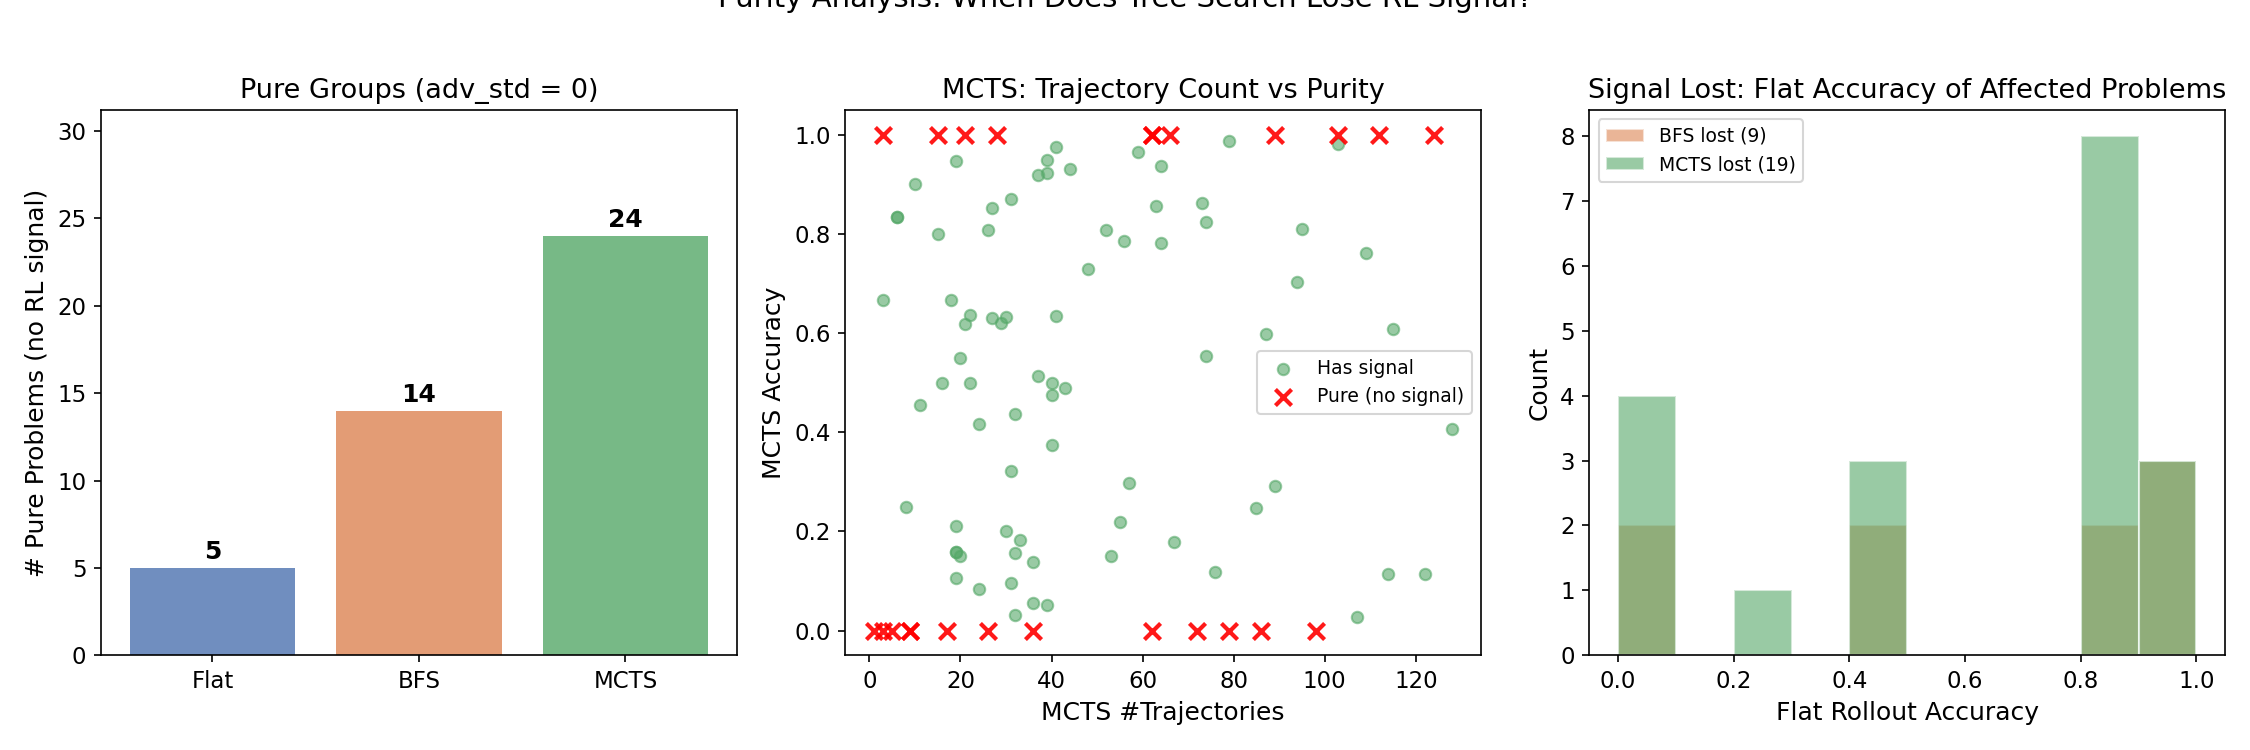
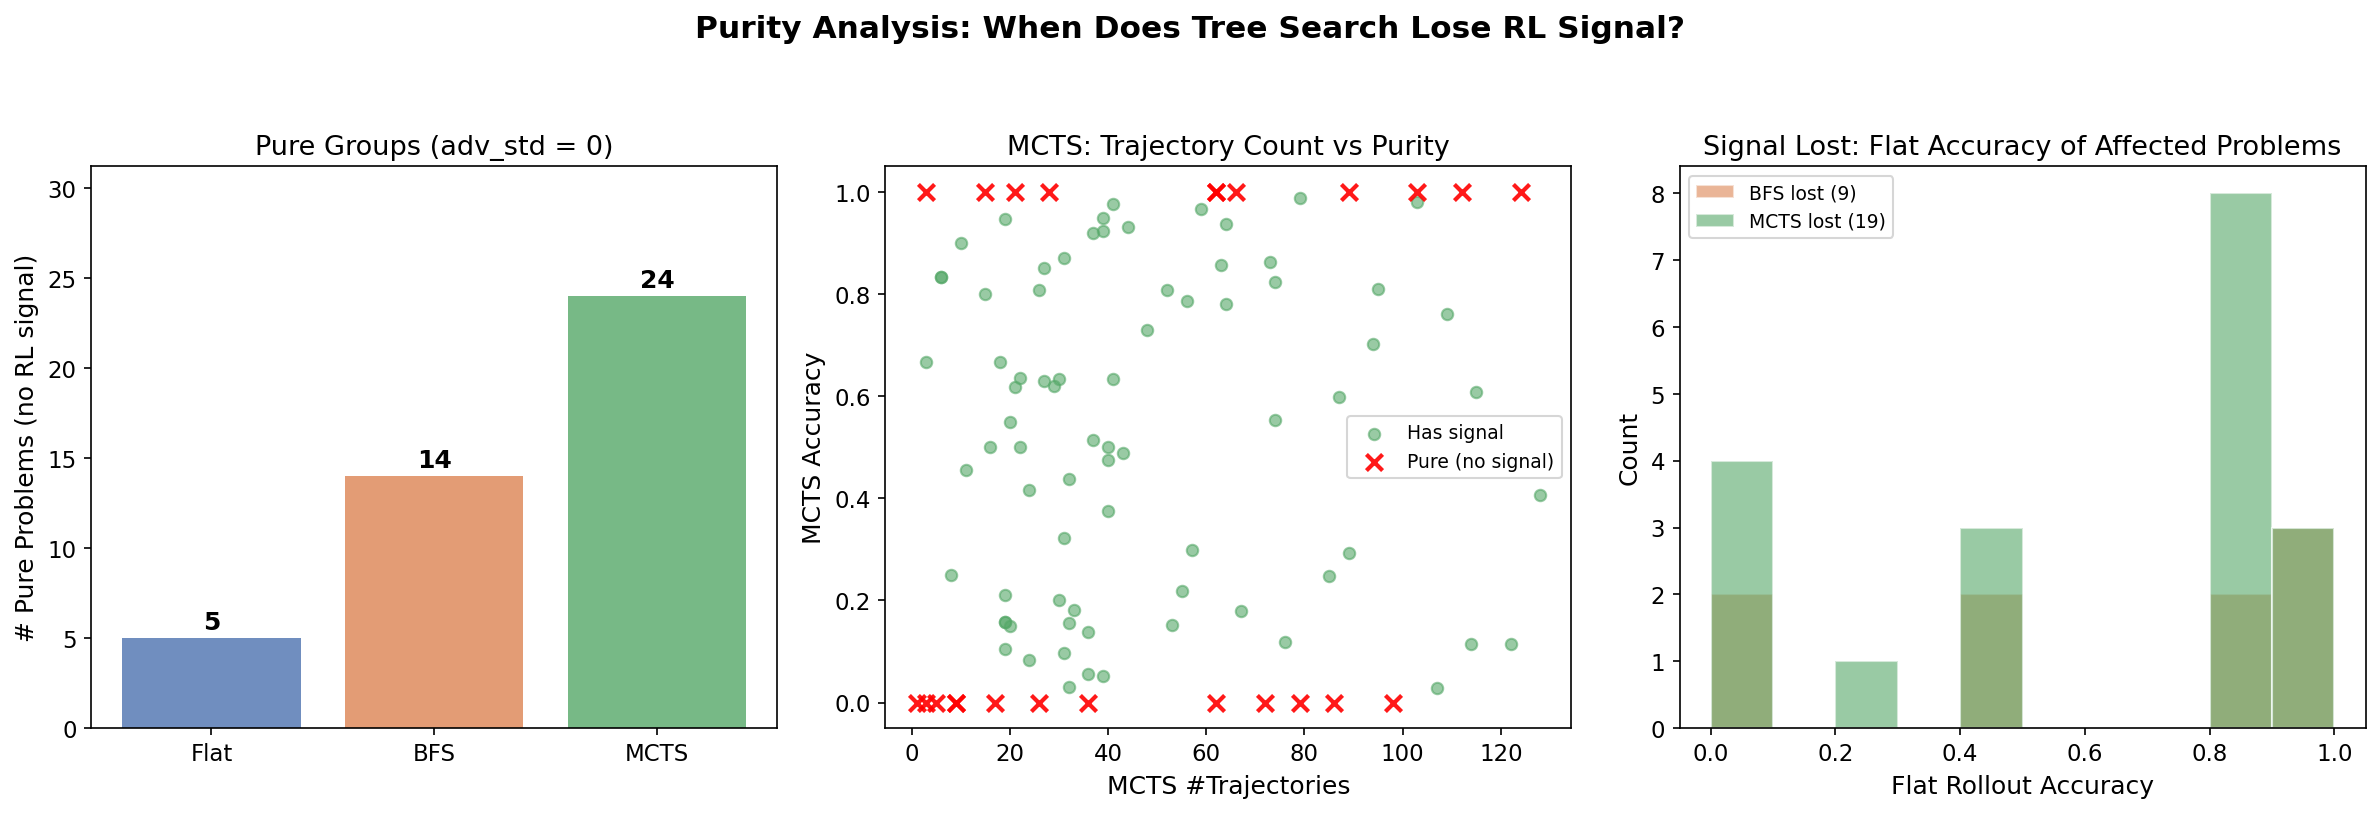
Fix plot titles and add README for advantage comparison results
- Fix suptitle clipping by using tight_layout(rect=...) + bbox_inches
- Add detailed README describing all 8 figures and the data file

diff --git a/poisson_mcts/plot_advantage_comparison.py b/poisson_mcts/plot_advantage_comparison.py
@@ -28,7 +28,7 @@ def load_data(path):
 
 def plot_accuracy_scatter(results, out_dir):
     """Scatter: Flat vs BFS / Flat vs MCTS accuracy per problem."""
-    fig, axes = plt.subplots(1, 2, figsize=(12, 5.5))
+    fig, axes = plt.subplots(1, 2, figsize=(13, 6))
 
     fa = [r["flat"]["accuracy"] for r in results]
     ba = [r["bfs_tree"]["accuracy"] for r in results]
@@ -66,16 +66,16 @@ def plot_accuracy_scatter(results, out_dir):
     ax.set_ylim(-0.05, 1.05)
     ax.set_aspect("equal")
 
-    fig.suptitle("Per-Problem Accuracy: Tree Methods vs Flat Rollout", fontsize=14, y=1.02)
-    fig.tight_layout()
-    fig.savefig(f"{out_dir}/accuracy_scatter.png")
+    fig.suptitle("Per-Problem Accuracy: Tree Methods vs Flat Rollout", fontsize=15, fontweight="bold")
+    fig.tight_layout(rect=[0, 0, 1, 0.95])
+    fig.savefig(f"{out_dir}/accuracy_scatter.png", bbox_inches="tight")
     plt.close(fig)
     print(f"Saved {out_dir}/accuracy_scatter.png")
 
 
 def plot_accuracy_diff_histogram(results, out_dir):
     """Histogram of accuracy differences: BFS-Flat and MCTS-Flat."""
-    fig, axes = plt.subplots(1, 2, figsize=(12, 5))
+    fig, axes = plt.subplots(1, 2, figsize=(13, 5.5))
 
     fa = np.array([r["flat"]["accuracy"] for r in results])
     ba = np.array([r["bfs_tree"]["accuracy"] for r in results])
@@ -92,7 +92,7 @@ def plot_accuracy_diff_histogram(results, out_dir):
     ax.axvline(np.mean(diff_fb), color="red", ls="-", lw=1.5, label=f"mean={np.mean(diff_fb):+.1%}")
     ax.set_xlabel("BFS Accuracy - Flat Accuracy")
     ax.set_ylabel("Count")
-    ax.set_title("BFS vs Flat: Accuracy Difference")
+    ax.set_title("BFS vs Flat")
     ax.legend()
 
     ax = axes[1]
@@ -101,12 +101,12 @@ def plot_accuracy_diff_histogram(results, out_dir):
     ax.axvline(np.mean(diff_fm), color="red", ls="-", lw=1.5, label=f"mean={np.mean(diff_fm):+.1%}")
     ax.set_xlabel("MCTS Accuracy - Flat Accuracy")
     ax.set_ylabel("Count")
-    ax.set_title("MCTS vs Flat: Accuracy Difference")
+    ax.set_title("MCTS vs Flat")
     ax.legend()
 
-    fig.suptitle("Per-Problem Accuracy Difference Distribution", fontsize=14, y=1.02)
-    fig.tight_layout()
-    fig.savefig(f"{out_dir}/accuracy_diff_histogram.png")
+    fig.suptitle("Per-Problem Accuracy Difference Distribution", fontsize=15, fontweight="bold")
+    fig.tight_layout(rect=[0, 0, 1, 0.93])
+    fig.savefig(f"{out_dir}/accuracy_diff_histogram.png", bbox_inches="tight")
     plt.close(fig)
     print(f"Saved {out_dir}/accuracy_diff_histogram.png")
 
@@ -121,7 +121,7 @@ def plot_accuracy_bar(results, out_dir):
     order = np.argsort(fa)
     fa, ba, ma, idx = fa[order], ba[order], ma[order], idx[order]
 
-    fig, ax = plt.subplots(figsize=(16, 5))
+    fig, ax = plt.subplots(figsize=(18, 6))
     x = np.arange(len(results))
     w = 0.27
     ax.bar(x - w, fa, w, color=COLORS["flat"], alpha=0.85, label=LABELS["flat"])
@@ -129,20 +129,20 @@ def plot_accuracy_bar(results, out_dir):
     ax.bar(x + w, ma, w, color=COLORS["mcts"], alpha=0.85, label=LABELS["mcts"])
     ax.set_xlabel("Problems (sorted by Flat accuracy)")
     ax.set_ylabel("Accuracy")
-    ax.set_title("Per-Problem Accuracy Comparison (100 Problems, step_0)")
+    ax.set_title("Per-Problem Accuracy Comparison (100 Problems, step_0)", fontsize=15, fontweight="bold")
     ax.legend(loc="upper left")
     ax.set_xticks(x[::5])
     ax.set_xticklabels([f"p{i}" for i in idx[::5]], fontsize=8, rotation=45)
     ax.set_ylim(0, 1.05)
     fig.tight_layout()
-    fig.savefig(f"{out_dir}/accuracy_bar_sorted.png")
+    fig.savefig(f"{out_dir}/accuracy_bar_sorted.png", bbox_inches="tight")
     plt.close(fig)
     print(f"Saved {out_dir}/accuracy_bar_sorted.png")
 
 
 def plot_trajectory_counts(results, out_dir):
     """Trajectory count distribution for BFS and MCTS."""
-    fig, axes = plt.subplots(1, 2, figsize=(12, 5))
+    fig, axes = plt.subplots(1, 2, figsize=(13, 5.5))
 
     bn = [r["bfs_tree"]["num_trajectories"] for r in results]
     mn = [r["poisson_mcts"]["num_trajectories"] for r in results]
@@ -153,7 +153,7 @@ def plot_trajectory_counts(results, out_dir):
     ax.axvline(np.mean(bn), color="black", ls="-", lw=1.5, label=f"mean={np.mean(bn):.0f}")
     ax.set_xlabel("#Trajectories")
     ax.set_ylabel("Count")
-    ax.set_title(f"BFS Tree: Trajectory Count (mean={np.mean(bn):.0f}, range={min(bn)}-{max(bn)})")
+    ax.set_title(f"BFS Tree (mean={np.mean(bn):.0f}, range={min(bn)}-{max(bn)})")
     ax.legend()
 
     ax = axes[1]
@@ -162,19 +162,19 @@ def plot_trajectory_counts(results, out_dir):
     ax.axvline(np.mean(mn), color="black", ls="-", lw=1.5, label=f"mean={np.mean(mn):.0f}")
     ax.set_xlabel("#Trajectories")
     ax.set_ylabel("Count")
-    ax.set_title(f"Poisson-MCTS: Trajectory Count (mean={np.mean(mn):.0f}, range={min(mn)}-{max(mn)})")
+    ax.set_title(f"Poisson-MCTS (mean={np.mean(mn):.0f}, range={min(mn)}-{max(mn)})")
     ax.legend()
 
-    fig.suptitle("Number of Complete Trajectories (Target: 128)", fontsize=14, y=1.02)
-    fig.tight_layout()
-    fig.savefig(f"{out_dir}/trajectory_counts.png")
+    fig.suptitle("Number of Complete Trajectories (Target: 128)", fontsize=15, fontweight="bold")
+    fig.tight_layout(rect=[0, 0, 1, 0.93])
+    fig.savefig(f"{out_dir}/trajectory_counts.png", bbox_inches="tight")
     plt.close(fig)
     print(f"Saved {out_dir}/trajectory_counts.png")
 
 
 def plot_token_efficiency(results, out_dir):
     """Token cost comparison."""
-    fig, axes = plt.subplots(1, 2, figsize=(12, 5))
+    fig, axes = plt.subplots(1, 2, figsize=(13, 5.5))
 
     ft = [r["flat"]["total_tokens"] for r in results]
     bt = [r["bfs_tree"]["total_tokens"] for r in results]
@@ -184,7 +184,7 @@ def plot_token_efficiency(results, out_dir):
     ax = axes[0]
     bp = ax.boxplot(
         [np.array(ft) / 1000, np.array(bt) / 1000, np.array(mt) / 1000],
-        labels=["Flat", "BFS", "MCTS"],
+        tick_labels=["Flat", "BFS", "MCTS"],
         patch_artist=True,
         widths=0.5,
     )
@@ -208,16 +208,16 @@ def plot_token_efficiency(results, out_dir):
     ax.legend(fontsize=9)
     ax.set_ylim(0, max(max(ratio_b), max(ratio_m)) * 1.1)
 
-    fig.suptitle("Compute Efficiency: Tree Methods vs Flat Rollout", fontsize=14, y=1.02)
-    fig.tight_layout()
-    fig.savefig(f"{out_dir}/token_efficiency.png")
+    fig.suptitle("Compute Efficiency: Tree Methods vs Flat Rollout", fontsize=15, fontweight="bold")
+    fig.tight_layout(rect=[0, 0, 1, 0.93])
+    fig.savefig(f"{out_dir}/token_efficiency.png", bbox_inches="tight")
     plt.close(fig)
     print(f"Saved {out_dir}/token_efficiency.png")
 
 
 def plot_purity_analysis(results, out_dir):
     """Purity (adv_std=0) analysis: who loses signal and why."""
-    fig, axes = plt.subplots(1, 3, figsize=(15, 5))
+    fig, axes = plt.subplots(1, 3, figsize=(16, 5.5))
 
     fa = np.array([r["flat"]["accuracy"] for r in results])
     ba = np.array([r["bfs_tree"]["accuracy"] for r in results])
@@ -265,9 +265,9 @@ def plot_purity_analysis(results, out_dir):
     ax.set_title("Signal Lost: Flat Accuracy of Affected Problems")
     ax.legend(fontsize=9)
 
-    fig.suptitle("Purity Analysis: When Does Tree Search Lose RL Signal?", fontsize=14, y=1.02)
-    fig.tight_layout()
-    fig.savefig(f"{out_dir}/purity_analysis.png")
+    fig.suptitle("Purity Analysis: When Does Tree Search Lose RL Signal?", fontsize=15, fontweight="bold")
+    fig.tight_layout(rect=[0, 0, 1, 0.93])
+    fig.savefig(f"{out_dir}/purity_analysis.png", bbox_inches="tight")
     plt.close(fig)
     print(f"Saved {out_dir}/purity_analysis.png")
 
@@ -275,8 +275,6 @@ def plot_purity_analysis(results, out_dir):
 def plot_advantage_distributions(results, out_dir):
     """Example advantage distributions for selected problems."""
     # Pick 6 representative problems
-    # 1. Both similar, 2. BFS better, 3. MCTS better, 4. MCTS pure, 5. Easy, 6. Hard
-    fa = {r["problem_index"]: r["flat"]["accuracy"] for r in results}
     candidates = []
     for r in results:
         diff_b = abs(r["flat"]["accuracy"] - r["bfs_tree"]["accuracy"])
@@ -319,7 +317,7 @@ def plot_advantage_distributions(results, out_dir):
             selected.append(c[0])
             break
 
-    fig, axes = plt.subplots(2, 3, figsize=(15, 9))
+    fig, axes = plt.subplots(2, 3, figsize=(16, 10))
     axes = axes.flatten()
 
     for ax_i, pidx in enumerate(selected[:6]):
@@ -338,20 +336,21 @@ def plot_advantage_distributions(results, out_dir):
                 label=f"BFS ({r['bfs_tree']['accuracy']:.0%}, n={r['bfs_tree']['num_trajectories']})", density=True)
         ax.hist(ma_adv, bins=bins, alpha=0.5, color=COLORS["mcts"],
                 label=f"MCTS ({r['poisson_mcts']['accuracy']:.0%}, n={r['poisson_mcts']['num_trajectories']})", density=True)
-        ax.set_title(f"Problem {pidx}", fontsize=11)
+        ax.set_title(f"Problem {pidx}", fontsize=12)
         ax.legend(fontsize=7, loc="upper right")
         ax.set_xlabel("GRPO Advantage")
 
-    fig.suptitle("Advantage Distribution Examples (6 Problems)", fontsize=14, y=1.02)
-    fig.tight_layout()
-    fig.savefig(f"{out_dir}/advantage_distributions.png")
+    fig.suptitle("GRPO Advantage Distribution Examples (6 Representative Problems)",
+                 fontsize=15, fontweight="bold")
+    fig.tight_layout(rect=[0, 0, 1, 0.95])
+    fig.savefig(f"{out_dir}/advantage_distributions.png", bbox_inches="tight")
     plt.close(fig)
     print(f"Saved {out_dir}/advantage_distributions.png")
 
 
 def plot_summary_table(results, out_dir):
     """Summary figure with key metrics as a visual table + bar chart."""
-    fig = plt.figure(figsize=(14, 6))
+    fig = plt.figure(figsize=(15, 7))
     gs = gridspec.GridSpec(1, 2, width_ratios=[1, 1.2])
 
     # Left: summary table
@@ -394,7 +393,7 @@ def plot_summary_table(results, out_dir):
         table[0, j].set_facecolor(list(COLORS.values())[j])
         table[0, j].set_text_props(color="white", fontweight="bold")
 
-    ax.set_title("Summary Metrics (100 Problems, step_0)", fontsize=13, pad=20)
+    ax.set_title("Key Metrics", fontsize=13, pad=20)
 
     # Right: accuracy bucket comparison
     ax2 = fig.add_subplot(gs[1])
@@ -416,8 +415,10 @@ def plot_summary_table(results, out_dir):
     ax2.set_title("Accuracy Distribution by Bucket")
     ax2.legend(fontsize=9)
 
-    fig.tight_layout()
-    fig.savefig(f"{out_dir}/summary.png")
+    fig.suptitle("GRPO Advantage Comparison Summary (100 Problems, step_0)",
+                 fontsize=15, fontweight="bold")
+    fig.tight_layout(rect=[0, 0, 1, 0.94])
+    fig.savefig(f"{out_dir}/summary.png", bbox_inches="tight")
     plt.close(fig)
     print(f"Saved {out_dir}/summary.png")
 

diff --git a/poisson_mcts/results/advantage_comparison/step_0/README.md b/poisson_mcts/results/advantage_comparison/step_0/README.md
@@ -1,0 +1,39 @@
+# GRPO Advantage Comparison: Flat Rollout vs BFS Tree vs Poisson-MCTS
+
+100 道 MATH500 题目，step_0（Qwen2.5-Math-7B 基础模型），目标每种方法产出 128 条完整推理轨迹，计算 GRPO advantage 并对比。
+
+## 图表说明
+
+### `summary.png`
+**汇总图。** 左侧为关键指标表格，右侧为正确率分桶柱状图。表格展示三种方法在准确率、轨迹数、纯度（无 RL 信号的题数）、token 开销和相关性上的对比。分桶图揭示树方法将更多题目推向极端（0% 和 100%），中间地带（20-60%）的题目减少。Flat 没有任何题达到 100% 正确率，但 BFS 有 5 题、MCTS 有 11 题达到 100%。
+
+### `accuracy_scatter.png`
+**逐题正确率散点图。** 每个点代表一道题，X 轴为 Flat Rollout 正确率，Y 轴为树方法正确率，颜色深浅表示该题生成的轨迹数量。虚线为 y=x 参考线。BFS 与 Flat 的 Pearson 相关性为 0.950，MCTS 为 0.915。大部分点在对角线上方，说明树方法整体正确率略高于 Flat。MCTS 散点更分散（方差更大），部分原因是轨迹数不稳定（颜色深的点偏离更远）。
+
+### `accuracy_diff_histogram.png`
+**逐题正确率差值分布直方图。** 左图为 BFS - Flat，右图为 MCTS - Flat。BFS 的差值分布集中在 0 附近，均值 +5.6%，标准差较小，说明 BFS 的行为与 Flat 高度一致且略有提升。MCTS 均值也是 +5.4%，但分布更宽（标准差 14.9%），存在少数差异很大的 outlier（±40%），反映了 MCTS 的随机性更强。
+
+### `accuracy_bar_sorted.png`
+**逐题正确率柱状图（按 Flat 正确率排序）。** 100 道题从左到右按 Flat 正确率从低到高排列，三种颜色的柱子并列对比。可以直观看到：简单题（右侧）三种方法表现接近；中等难度题树方法通常更高；困难题（左侧）差异较大且方向不一定。
+
+### `trajectory_counts.png`
+**轨迹数分布直方图。** 红色虚线为目标值 128。BFS 的轨迹数集中在 27-52，均值 43，分布非常集中（因为分支因子是确定性的）。MCTS 的轨迹数分布极为分散（1-128），均值 47，说明 MCTS 的树结构因题目而异。两种方法都远未达到 128 条目标，这是导致 purity 升高的根本原因。
+
+### `token_efficiency.png`
+**计算效率对比。** 左图箱线图展示三种方法的每题 token 开销：Flat 中位数约 170K token，BFS 和 MCTS 中位数约 25K，约为 Flat 的 12-15%。右图散点图展示逐题的 token 比率（Tree/Flat），BFS 均值 14.9%，MCTS 均值 14.6%。树方法通过前缀共享大幅降低了计算成本。
+
+### `purity_analysis.png`
+**Purity 分析：树方法何时丢失 RL 信号？** 左图柱状图展示三种方法的 pure 题目数（adv_std=0，即所有轨迹全对或全错，GRPO advantage 为 0，无训练信号）：Flat 5 题，BFS 14 题，MCTS 24 题。中间散点图展示 MCTS 的轨迹数与 purity 的关系——纯组（红叉）在各个轨迹数量级都存在，并非只出现在轨迹少的题目上，高准确率题（全对）和低准确率题（全错）都容易变纯。右图展示丢失信号的题目在 Flat 中的原始正确率分布：大部分集中在极端值（接近 0% 或 90%+），即本来就接近全对/全错的题目。
+
+### `advantage_distributions.png`
+**6 道代表性题目的 GRPO Advantage 分布直方图。** 选取了 6 种典型情况：三方法一致（如 Problem 11 全错）、BFS 大幅优于 Flat、MCTS 大幅优于 Flat、MCTS 大幅劣于 Flat、中等难度题、困难题。每个子图中三种颜色的直方图叠加显示 advantage 值的分布密度，图例标注了正确率和轨迹数。可以看到当正确率不同时，advantage 分布的形状（二值分布的两个 spike 的高度比）会发生偏移。
+
+## 数据文件
+
+### `comparison_step_0.json`
+完整的实验结果（869KB），包含 100 道题每种方法的：
+- `accuracy`, `adv_std`, `adv_mean`: 正确率和 advantage 统计量
+- `total_tokens`, `tokens_per_trajectory`: token 开销
+- `num_trajectories`: 实际生成的轨迹数
+- `token_savings`: 相对于等价 flat 开销的节省比例
+- `flat_advantages`, `bfs_advantages`, `mcts_advantages`: 完整的 advantage 数组（用于分布分析）
